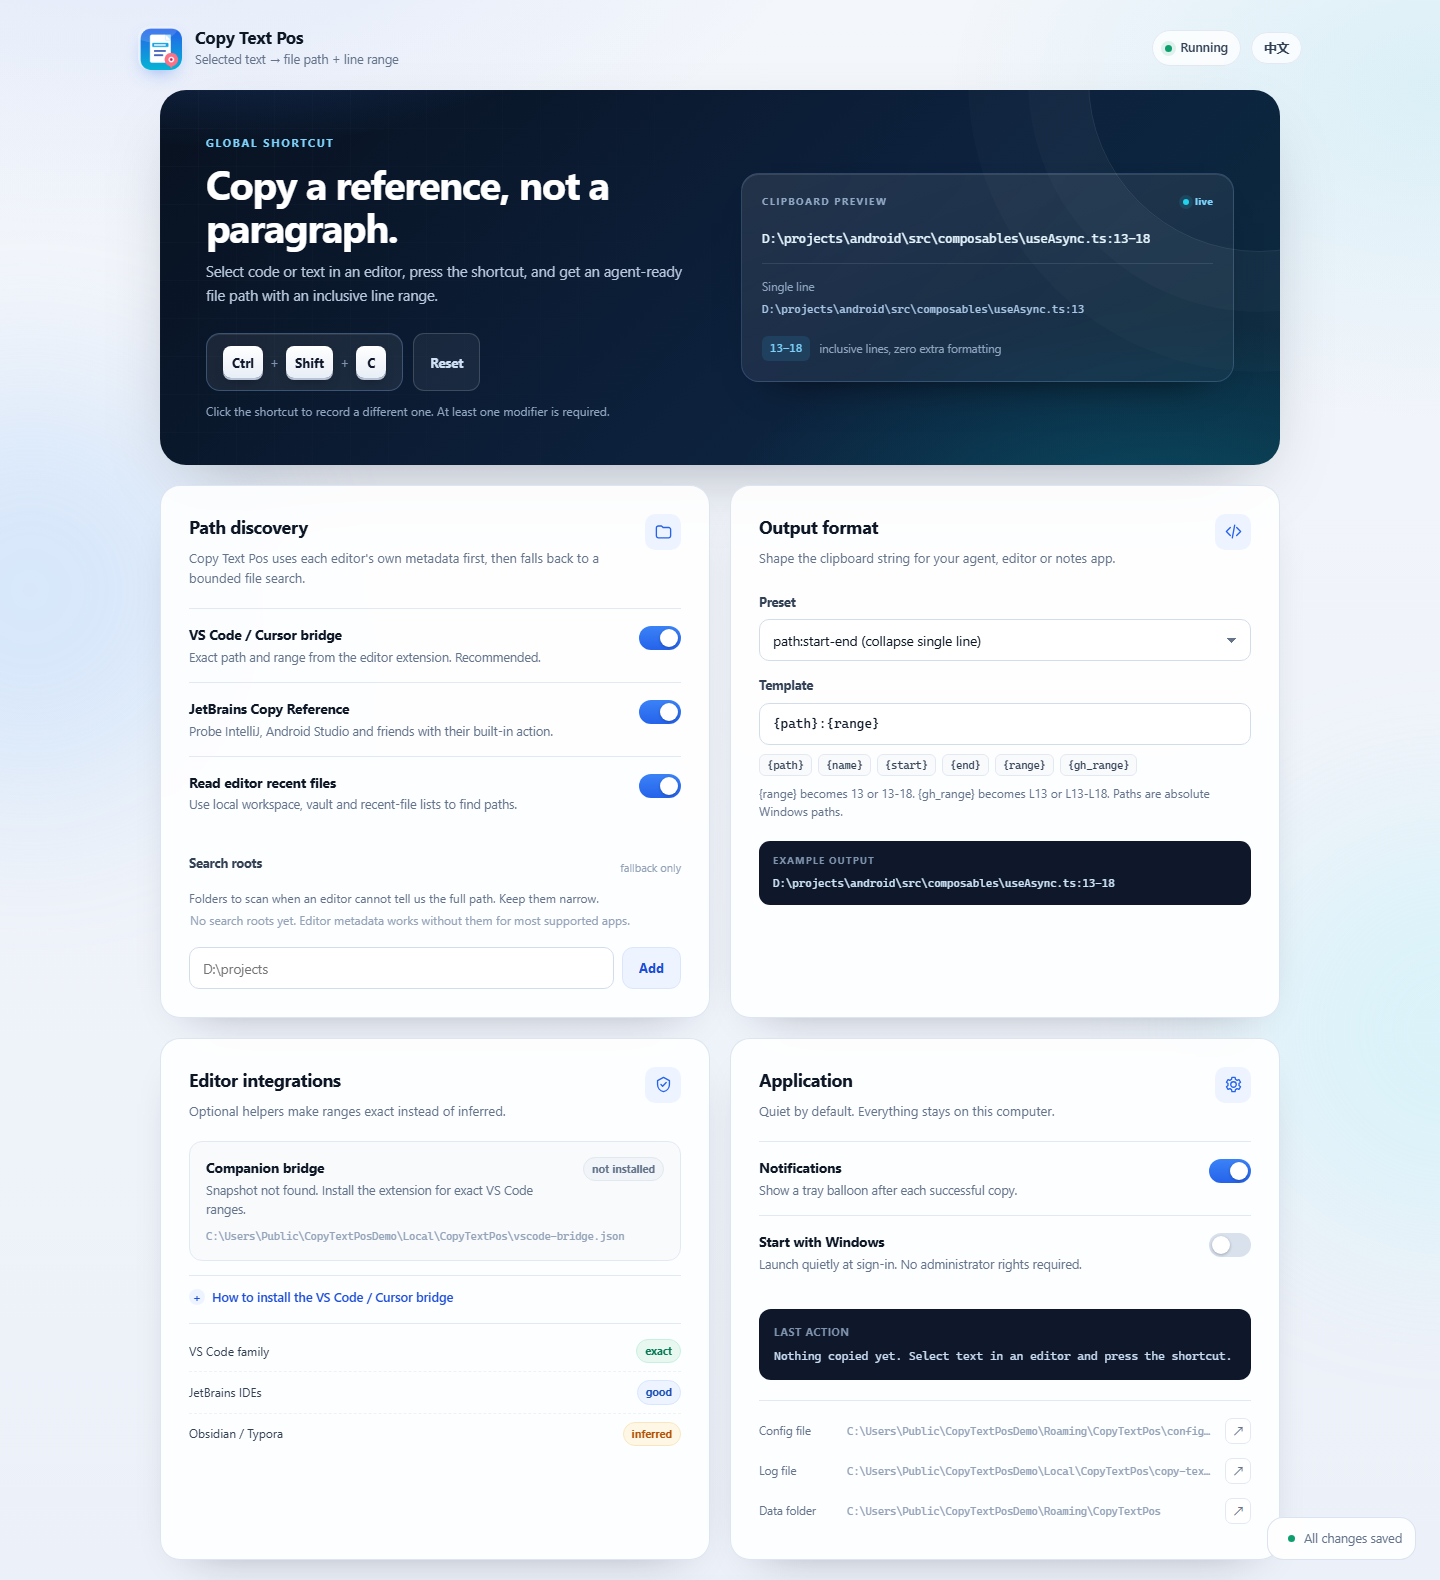
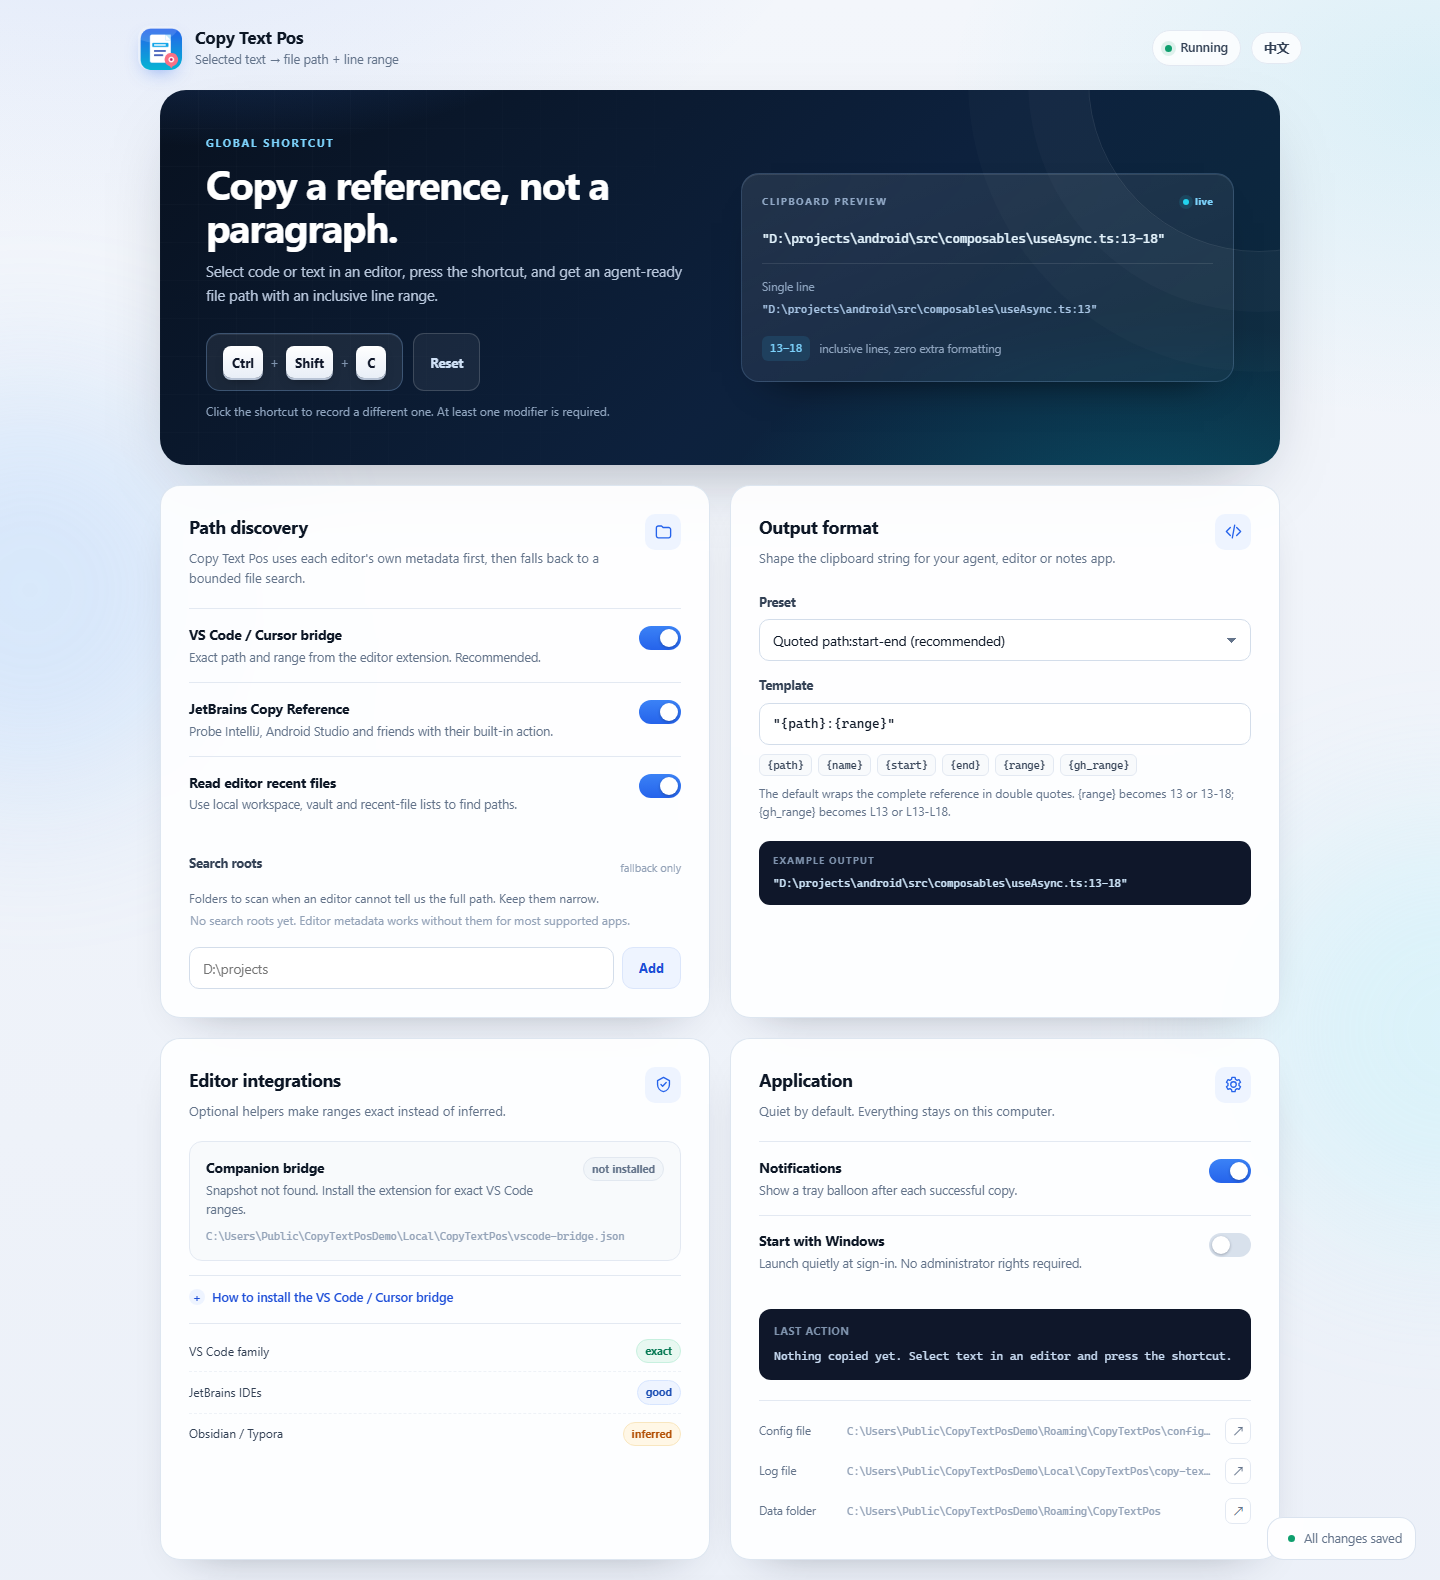
复制出来的内容加双引号

diff --git a/internal/settings/assets/app.js b/internal/settings/assets/app.js
@@ -39,13 +39,14 @@
       outputTitle: 'Output format',
       outputDesc: 'Shape the clipboard string for your agent, editor or notes app.',
       presetLabel: 'Preset',
-      presetDefault: 'path:start-end (collapse single line)',
-      presetAlways: 'path:start-end (always a range)',
+      presetDefault: 'Quoted path:start-end (recommended)',
+      presetAlways: 'Quoted path:start-end (always a range)',
+      presetUnquoted: 'Unquoted path:start-end',
       presetGithub: 'GitHub link fragment',
       presetMarkdown: 'Markdown link',
       presetCustom: 'Custom template',
       templateLabel: 'Template',
-      templateHelp: '{range} becomes 13 or 13-18. {gh_range} becomes L13 or L13-L18. Paths are absolute Windows paths.',
+      templateHelp: 'The default wraps the complete reference in double quotes. {range} becomes 13 or 13-18; {gh_range} becomes L13 or L13-L18.',
       exampleLabel: 'Example output',
       integrationsTitle: 'Editor integrations',
       integrationsDesc: 'Optional helpers make ranges exact instead of inferred.',
@@ -161,13 +162,14 @@
       outputTitle: '输出格式',
       outputDesc: '按 Agent、编辑器或笔记软件的需要定制剪贴板内容。',
       presetLabel: '预设',
-      presetDefault: '路径:起始-结束（单行折叠）',
-      presetAlways: '路径:起始-结束（始终范围）',
+      presetDefault: '带引号：路径:起始-结束（推荐）',
+      presetAlways: '带引号：路径:起始-结束（始终范围）',
+      presetUnquoted: '不带引号：路径:起始-结束',
       presetGithub: 'GitHub 行号片段',
       presetMarkdown: 'Markdown 链接',
       presetCustom: '自定义模板',
       templateLabel: '模板',
-      templateHelp: '{range} 输出 13 或 13-18；{gh_range} 输出 L13 或 L13-L18。路径始终为 Windows 绝对路径。',
+      templateHelp: '默认用双引号包裹整段引用。{range} 输出 13 或 13-18；{gh_range} 输出 L13 或 L13-L18。',
       exampleLabel: '输出示例',
       integrationsTitle: '编辑器集成',
       integrationsDesc: '可选扩展可把推断范围升级为精确范围。',
@@ -252,7 +254,7 @@
     }
   };
 
-  const PRESETS = new Set(['{path}:{range}', '{path}:{start}-{end}', '{path}#L{start}-L{end}', '[{name}]({path}#L{start}-L{end})']);
+  const PRESETS = new Set(['"{path}:{range}"', '"{path}:{start}-{end}"', '{path}:{range}', '{path}:{start}-{end}', '{path}#L{start}-L{end}', '[{name}]({path}#L{start}-L{end})']);
 
   let lang = localStorage.getItem('ctp-lang');
   if (lang !== 'en' && lang !== 'zh') {

diff --git a/internal/settings/assets/index.html b/internal/settings/assets/index.html
@@ -48,11 +48,11 @@
           <span data-i18n="previewLabel">CLIPBOARD PREVIEW</span>
           <span class="preview-live"><i></i><span data-i18n="previewLive">live</span></span>
         </div>
-        <code class="preview-output" id="previewOutput">D:\projects\android\src\composables\useAsync.ts:13-18</code>
+        <code class="preview-output" id="previewOutput">"D:\projects\android\src\composables\useAsync.ts:13-18"</code>
         <div class="preview-rule"></div>
         <div class="preview-secondary">
           <span data-i18n="previewSingle">Single line</span>
-          <code id="previewSingle">D:\projects\android\src\composables\useAsync.ts:13</code>
+          <code id="previewSingle">"D:\projects\android\src\composables\useAsync.ts:13"</code>
         </div>
         <div class="preview-foot">
           <span class="preview-chip">13–18</span>
@@ -123,8 +123,9 @@
         <div class="field-block">
           <label class="field-label" for="formatPreset" data-i18n="presetLabel">Preset</label>
           <select id="formatPreset">
-            <option value="{path}:{range}" data-i18n="presetDefault">path:start-end (collapse single line)</option>
-            <option value="{path}:{start}-{end}" data-i18n="presetAlways">path:start-end (always a range)</option>
+            <option value='"{path}:{range}"' data-i18n="presetDefault">Quoted path:start-end (recommended)</option>
+            <option value='"{path}:{start}-{end}"' data-i18n="presetAlways">Quoted path:start-end (always a range)</option>
+            <option value="{path}:{range}" data-i18n="presetUnquoted">Unquoted path:start-end</option>
             <option value="{path}#L{start}-L{end}" data-i18n="presetGithub">GitHub link fragment</option>
             <option value="[{name}]({path}#L{start}-L{end})" data-i18n="presetMarkdown">Markdown link</option>
             <option value="custom" data-i18n="presetCustom">Custom template</option>
@@ -142,7 +143,7 @@
           <p class="field-help" data-i18n="templateHelp">{range} becomes 13 or 13-18. {gh_range} becomes L13 or L13-L18. Paths are absolute Windows paths.</p>
           <div class="format-example">
             <div class="format-example-label" data-i18n="exampleLabel">Example output</div>
-            <code id="formatExample">D:\projects\android\src\composables\useAsync.ts:13-18</code>
+            <code id="formatExample">"D:\projects\android\src\composables\useAsync.ts:13-18"</code>
           </div>
         </div>
       </section>

diff --git a/internal/config/config_test.go b/internal/config/config_test.go
@@ -23,6 +23,9 @@ func TestSaveLoadRoundTrip(t *testing.T) {
 	if got.Hotkey != "Ctrl+Alt+P" || got.Notifications {
 		t.Fatalf("unexpected config: %+v", got)
 	}
+	if got.Format != `"{path}:{range}"` || got.Version != CurrentVersion {
+		t.Fatalf("unexpected format/version: %+v", got)
+	}
 	if len(got.SearchRoots) != 1 || got.SearchRoots[0] != filepath.Clean(dir) {
 		t.Fatalf("roots not normalized: %#v", got.SearchRoots)
 	}
@@ -33,8 +36,40 @@ func TestLoadMissingReturnsDefaults(t *testing.T) {
 	if err != ErrNotFound {
 		t.Fatalf("err=%v want ErrNotFound", err)
 	}
-	if cfg.Hotkey != "Ctrl+Shift+C" || cfg.Format != "{path}:{range}" {
+	if cfg.Hotkey != "Ctrl+Shift+C" || cfg.Format != `"{path}:{range}"` {
 		t.Fatalf("unexpected defaults: %+v", cfg)
+	}
+}
+
+func TestMigrateQuotedDefault(t *testing.T) {
+	dir := t.TempDir()
+	path := filepath.Join(dir, "config.json")
+	data := []byte(`{"version":1,"hotkey":"Ctrl+Shift+C","format":"{path}:{range}"}`)
+	if err := os.WriteFile(path, data, 0o600); err != nil {
+		t.Fatal(err)
+	}
+	cfg, err := Load(path)
+	if err != nil {
+		t.Fatal(err)
+	}
+	if !cfg.Migrated || cfg.Version != CurrentVersion {
+		t.Fatalf("not migrated: %+v", cfg)
+	}
+	if cfg.Format != `"{path}:{range}"` {
+		t.Fatalf("format=%q want quoted default", cfg.Format)
+	}
+
+	// A custom template from v1 must survive migration untouched.
+	custom := []byte(`{"version":1,"hotkey":"Ctrl+Shift+C","format":"{path}:{start}"}`)
+	if err := os.WriteFile(path, custom, 0o600); err != nil {
+		t.Fatal(err)
+	}
+	cfg, err = Load(path)
+	if err != nil {
+		t.Fatal(err)
+	}
+	if cfg.Format != "{path}:{start}" {
+		t.Fatalf("custom format changed: %q", cfg.Format)
 	}
 }
 

diff --git a/internal/config/config.go b/internal/config/config.go
@@ -16,7 +16,7 @@ import (
 )
 
 // CurrentVersion is the config schema version.
-const CurrentVersion = 1
+const CurrentVersion = 2
 
 // ErrNotFound means no config file exists yet.
 var ErrNotFound = errors.New("config file not found")
@@ -33,6 +33,9 @@ type Config struct {
 	Notifications            bool     `json:"notifications"`
 	StartWithWindows         bool     `json:"startWithWindows"`
 	MaxSearchMs              int      `json:"maxSearchMs"`
+
+	// Migrated is transient: true when Load upgraded an older schema.
+	Migrated bool `json:"-"`
 }
 
 // Default returns a ready-to-run configuration.
@@ -118,6 +121,15 @@ func Load(path string) (Config, error) {
 	data = bytes.TrimPrefix(data, []byte{0xEF, 0xBB, 0xBF})
 	if err := json.Unmarshal(data, &cfg); err != nil {
 		return Default(), fmt.Errorf("parse %s: %w", path, err)
+	}
+	incomingVersion := cfg.Version
+	if incomingVersion < CurrentVersion {
+		cfg.Migrated = true
+	}
+	// v1 configs stored the unquoted default explicitly. Upgrade that one
+	// default to the new quoted form while leaving custom templates alone.
+	if incomingVersion < 2 && cfg.Format == render.LegacyDefaultTemplate {
+		cfg.Format = render.DefaultTemplate
 	}
 	cfg.Normalize()
 	if cfg.Hotkey == "" {

diff --git a/internal/render/render_test.go b/internal/render/render_test.go
@@ -11,8 +11,18 @@ func TestRenderDefault(t *testing.T) {
 	if err != nil {
 		t.Fatal(err)
 	}
-	want := `D:\projects\android\src\composables\useAsync.ts:13-18`
+	want := `"D:\projects\android\src\composables\useAsync.ts:13-18"`
 	if got != want {
+		t.Fatalf("got %q want %q", got, want)
+	}
+}
+
+func TestQuotedSingleLine(t *testing.T) {
+	got, err := Render(DefaultTemplate, Location{Path: `D:\a b\x.ts`, Start: 7, End: 7})
+	if err != nil {
+		t.Fatal(err)
+	}
+	if want := `"D:\a b\x.ts:7"`; got != want {
 		t.Fatalf("got %q want %q", got, want)
 	}
 }

diff --git a/internal/render/render.go b/internal/render/render.go
@@ -17,8 +17,12 @@ type Location struct {
 	End   int
 }
 
-// DefaultTemplate preserves the most widely understood "path:start-end" form.
-const DefaultTemplate = "{path}:{range}"
+// DefaultTemplate wraps the complete path:line reference in double quotes for
+// direct pasting into agents and chat boxes.
+const DefaultTemplate = `"{path}:{range}"`
+
+// LegacyDefaultTemplate is the pre-0.1.3 default, used for config migration.
+const LegacyDefaultTemplate = "{path}:{range}"
 
 var placeholderRE = regexp.MustCompile(`\{([A-Za-z_]+)\}`)
 

diff --git a/internal/app/app.go b/internal/app/app.go
@@ -108,9 +108,11 @@ func New(configPath string, debug bool) (*App, error) {
 		a.log.Error("load config: %v", loadErr)
 	}
 	a.firstRun = firstRun
-	if firstRun || recovered {
+	if firstRun || recovered || cfg.Migrated {
 		if err := config.Save(configPath, cfg); err != nil {
 			a.log.Error("write initial config: %v", err)
+		} else if cfg.Migrated {
+			a.log.Info("migrated configuration to schema v%d", config.CurrentVersion)
 		}
 	}
 	if recovered {

diff --git a/README.md b/README.md
@@ -9,7 +9,7 @@
 </p>
 
 <p align="center">
-  <code>D:\projects\android\src\composables\useAsync.ts:13-18</code>
+  <code>"D:\projects\android\src\composables\useAsync.ts:13-18"</code>
 </p>
 
 <p align="center">
@@ -33,7 +33,7 @@ selection into an absolute path with an inclusive line range — the format most
 coding agents understand:
 
 ```text
-D:\projects\android\src\composables\useAsync.ts:13-18
+"D:\projects\android\src\composables\useAsync.ts:13-18"
 ```
 
 It works without plugins in many editors. For VS Code, Cursor, Windsurf and
@@ -70,6 +70,9 @@ numbers, and formatting the result. Copy Text Pos reduces it to one keystroke.
   searches.
 - **Polite clipboard handling** — if a copy fails, the previous clipboard is
   restored instead of being destroyed.
+- **Quoted by default** — the complete `path:line` reference is wrapped in
+  double quotes, ready to paste into an agent or chat box. Templates can switch
+  back to an unquoted form or emit GitHub/Markdown references.
 - **Agent-friendly templates** — `path:start-end`, always-range, GitHub
   `#L13-L18`, Markdown links, or your own placeholders.
 - **Local only** — no network calls, no telemetry. Settings are served by a
@@ -83,7 +86,7 @@ numbers, and formatting the result. Copy Text Pos reduces it to one keystroke.
 2. Run it. A tray icon appears. The default hotkey is **`Ctrl+Shift+C`**.
 3. Select text in an editor and press the shortcut.
 4. Paste. You should get a reference like
-   `D:\projects\android\src\composables\useAsync.ts:13-18`.
+   `"D:\projects\android\src\composables\useAsync.ts:13-18"`.
 5. Right-click the tray icon → **Settings…** to change the shortcut, output
    template, search roots and integrations.
 
@@ -229,7 +232,7 @@ IDEs use their own accessibility bridge. Counting UI text lines is not the same
 as counting source lines when the editor folds code, wraps lines, or renders
 Markdown. And UIA still does not tell us the file path.
 
-So v0.1.2 uses a hybrid of **editor-native metadata + clipboard selection +
+So v0.1.3 uses a hybrid of **editor-native metadata + clipboard selection +
 source search**, with an optional exact bridge for VS Code derivatives. UIA
 might be added later for narrow jobs such as classifying the focused control
 (editor vs. integrated terminal), but it is not a good foundation for the whole
@@ -246,7 +249,7 @@ Open **tray icon → Settings…**. The page is served locally at a random
 | Setting | Default | Meaning |
 |---|---|---|
 | `hotkey` | `Ctrl+Shift+C` | Global shortcut, e.g. `Ctrl+Alt+Shift+F10` |
-| `format` | `{path}:{range}` | Clipboard template |
+| `format` | `"{path}:{range}"` | Clipboard template; quotes are literal |
 | `searchRoots` | `[]` | Folders scanned as a fallback |
 | `enableVSCodeBridge` | `true` | Read the VS Code/Cursor snapshot |
 | `enableJetBrainsReference` | `true` | Probe JetBrains *Copy Reference* |
@@ -276,14 +279,18 @@ names. At least one modifier is required.
 Useful templates:
 
 ```text
-{path}:{range}
+"{path}:{range}"                  ← default
+"{path}:{start}-{end}"
+{path}:{range}                    (unquoted)
 {path}:{start}-{end}
 {path}#L{start}-L{end}
 [{name}]({path}#L{start}-L{end})
 ```
 
-For a single-line selection, `{range}` collapses to one number, which is what
-most agents expect.
+The quotes are ordinary literal characters in the template, so the copied text
+is exactly `"D:\...\file.ts:13-18"`. Remove them or pick the unquoted preset if
+your downstream tool does not want quoting. For a single-line selection,
+`{range}` collapses to one number, which is what most agents expect.
 
 ## Privacy and safety
 
@@ -332,7 +339,7 @@ Requirements:
 ```powershell
 git clone <this repository>
 cd copy-text-pos
-.\build.ps1 -Version 0.1.2 -Package
+.\build.ps1 -Version 0.1.3 -Package
 ```
 
 Outputs:
@@ -340,13 +347,13 @@ Outputs:
 ```text
 bin\copy-text-pos.exe
 bin\copy-text-pos.exe.sha256
-bin\copy-text-pos-0.1.2-win-x64.zip
+bin\copy-text-pos-0.1.3-win-x64.zip
 ```
 
 For a build with a console window (useful for debugging):
 
 ```powershell
-.\build.ps1 -Version 0.1.2 -Console -Output bin\copy-text-pos-dev.exe
+.\build.ps1 -Version 0.1.3 -Console -Output bin\copy-text-pos-dev.exe
 ```
 
 Tests:

diff --git a/CHANGELOG.md b/CHANGELOG.md
@@ -7,6 +7,16 @@ and this project follows [Semantic Versioning](https://semver.org/).
 
 ## [Unreleased]
 
+## [0.1.3] - 2026-10-24
+
+### Changed
+
+- Default clipboard output is now wrapped in double quotes:
+  `"D:\projects\app\src\useAsync.ts:13-18"`.
+- Added quoted presets and an explicit unquoted preset in Settings.
+- Config schema v2 migrates the old unquoted default to the quoted default
+  without touching custom templates.
+
 ## [0.1.2] - 2026-10-24
 
 ### Fixed
